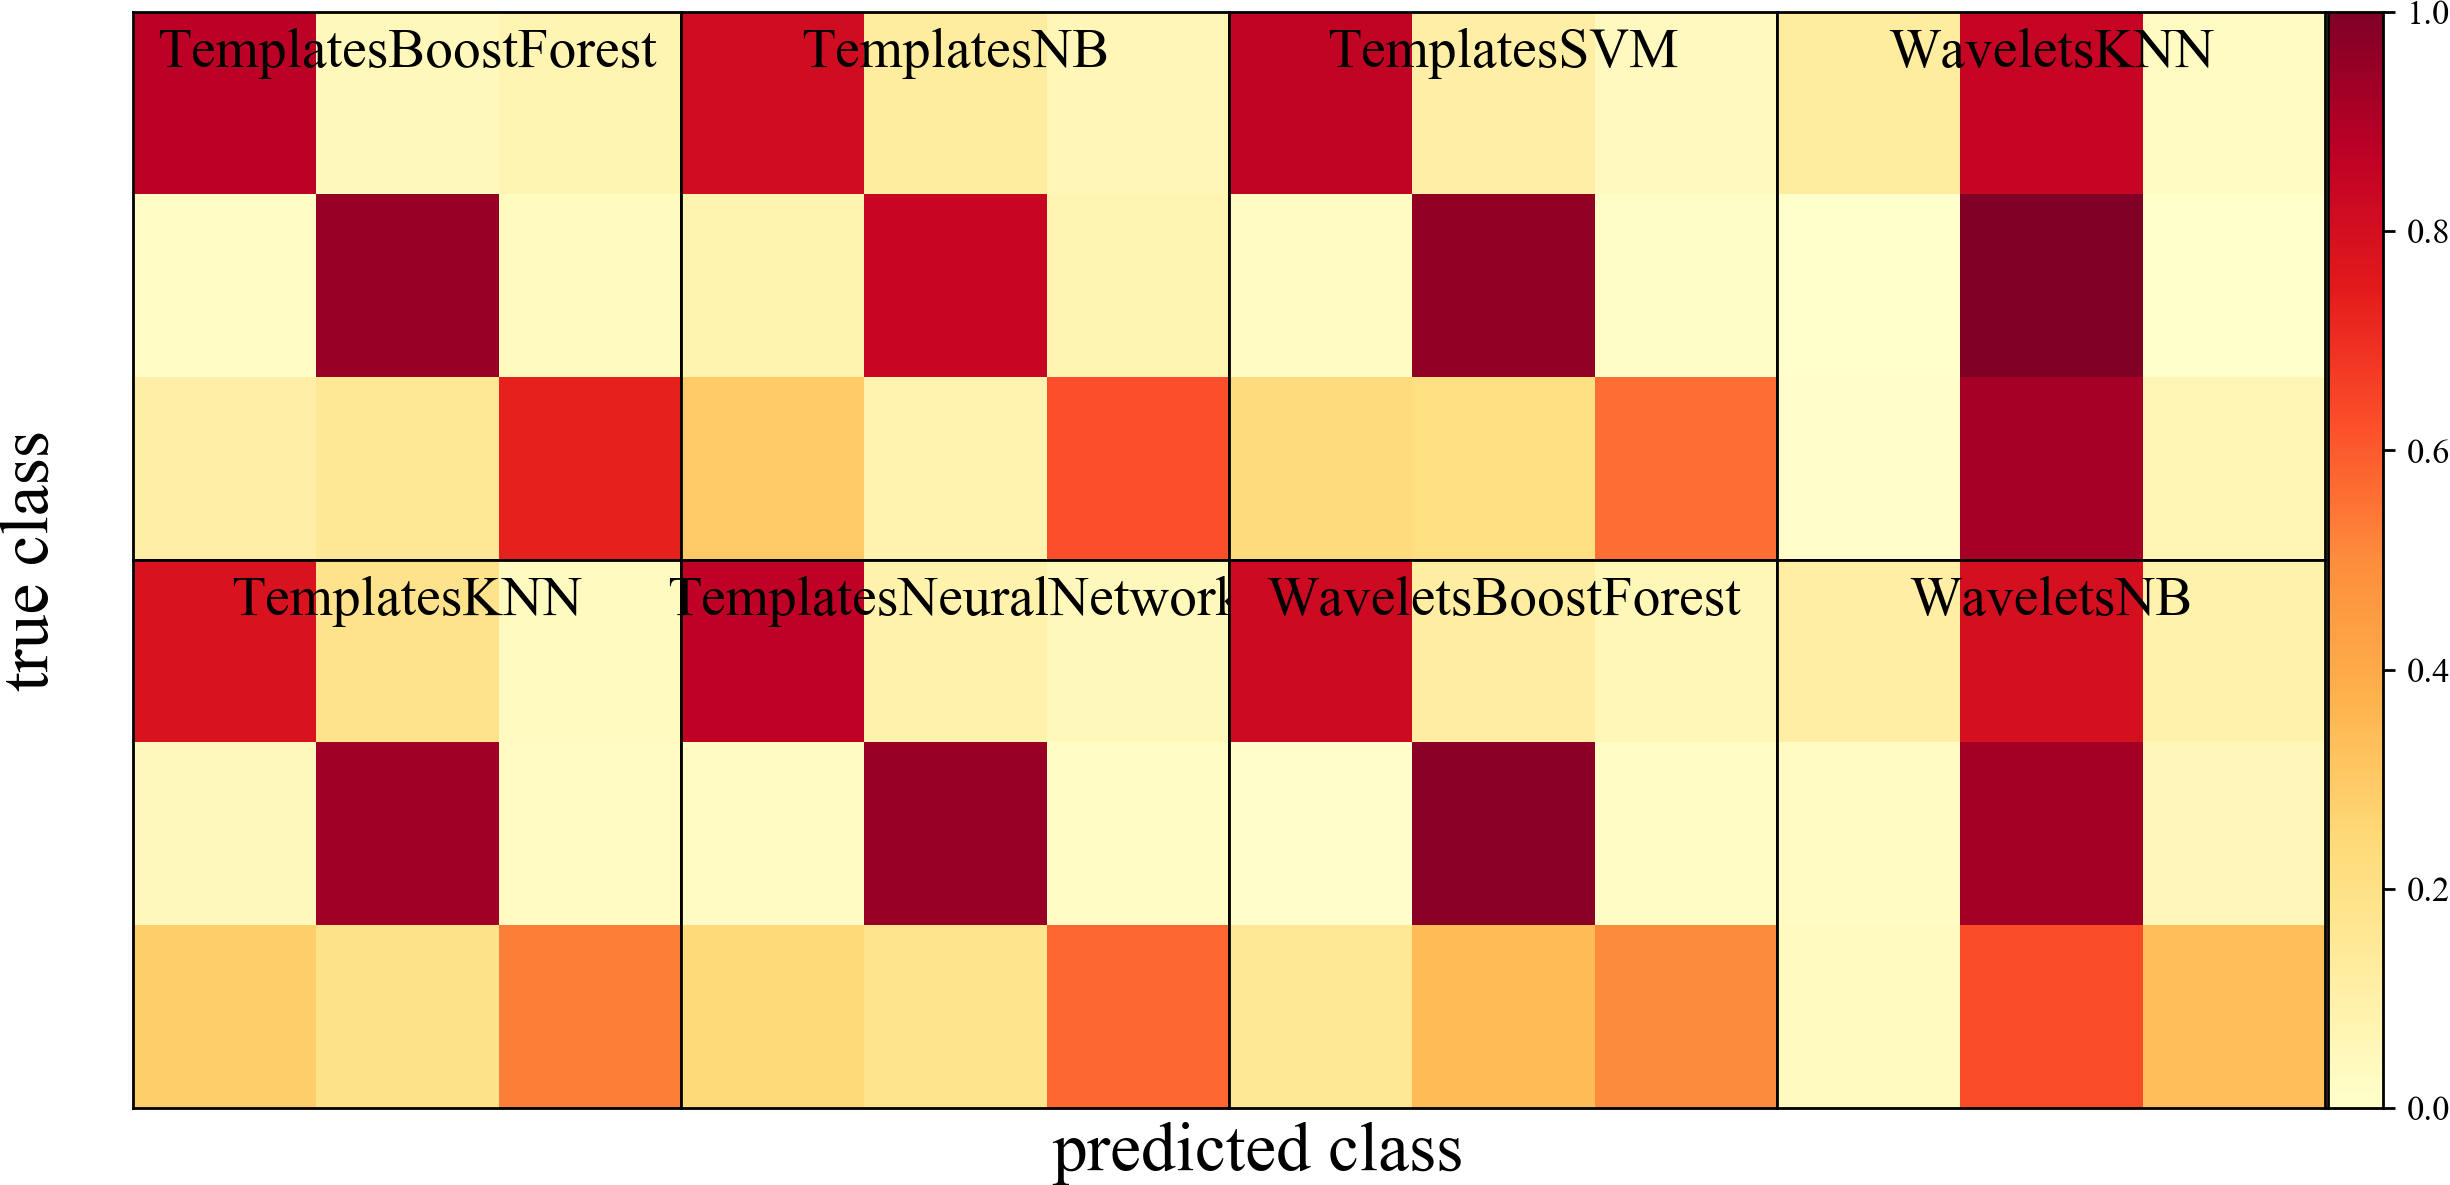
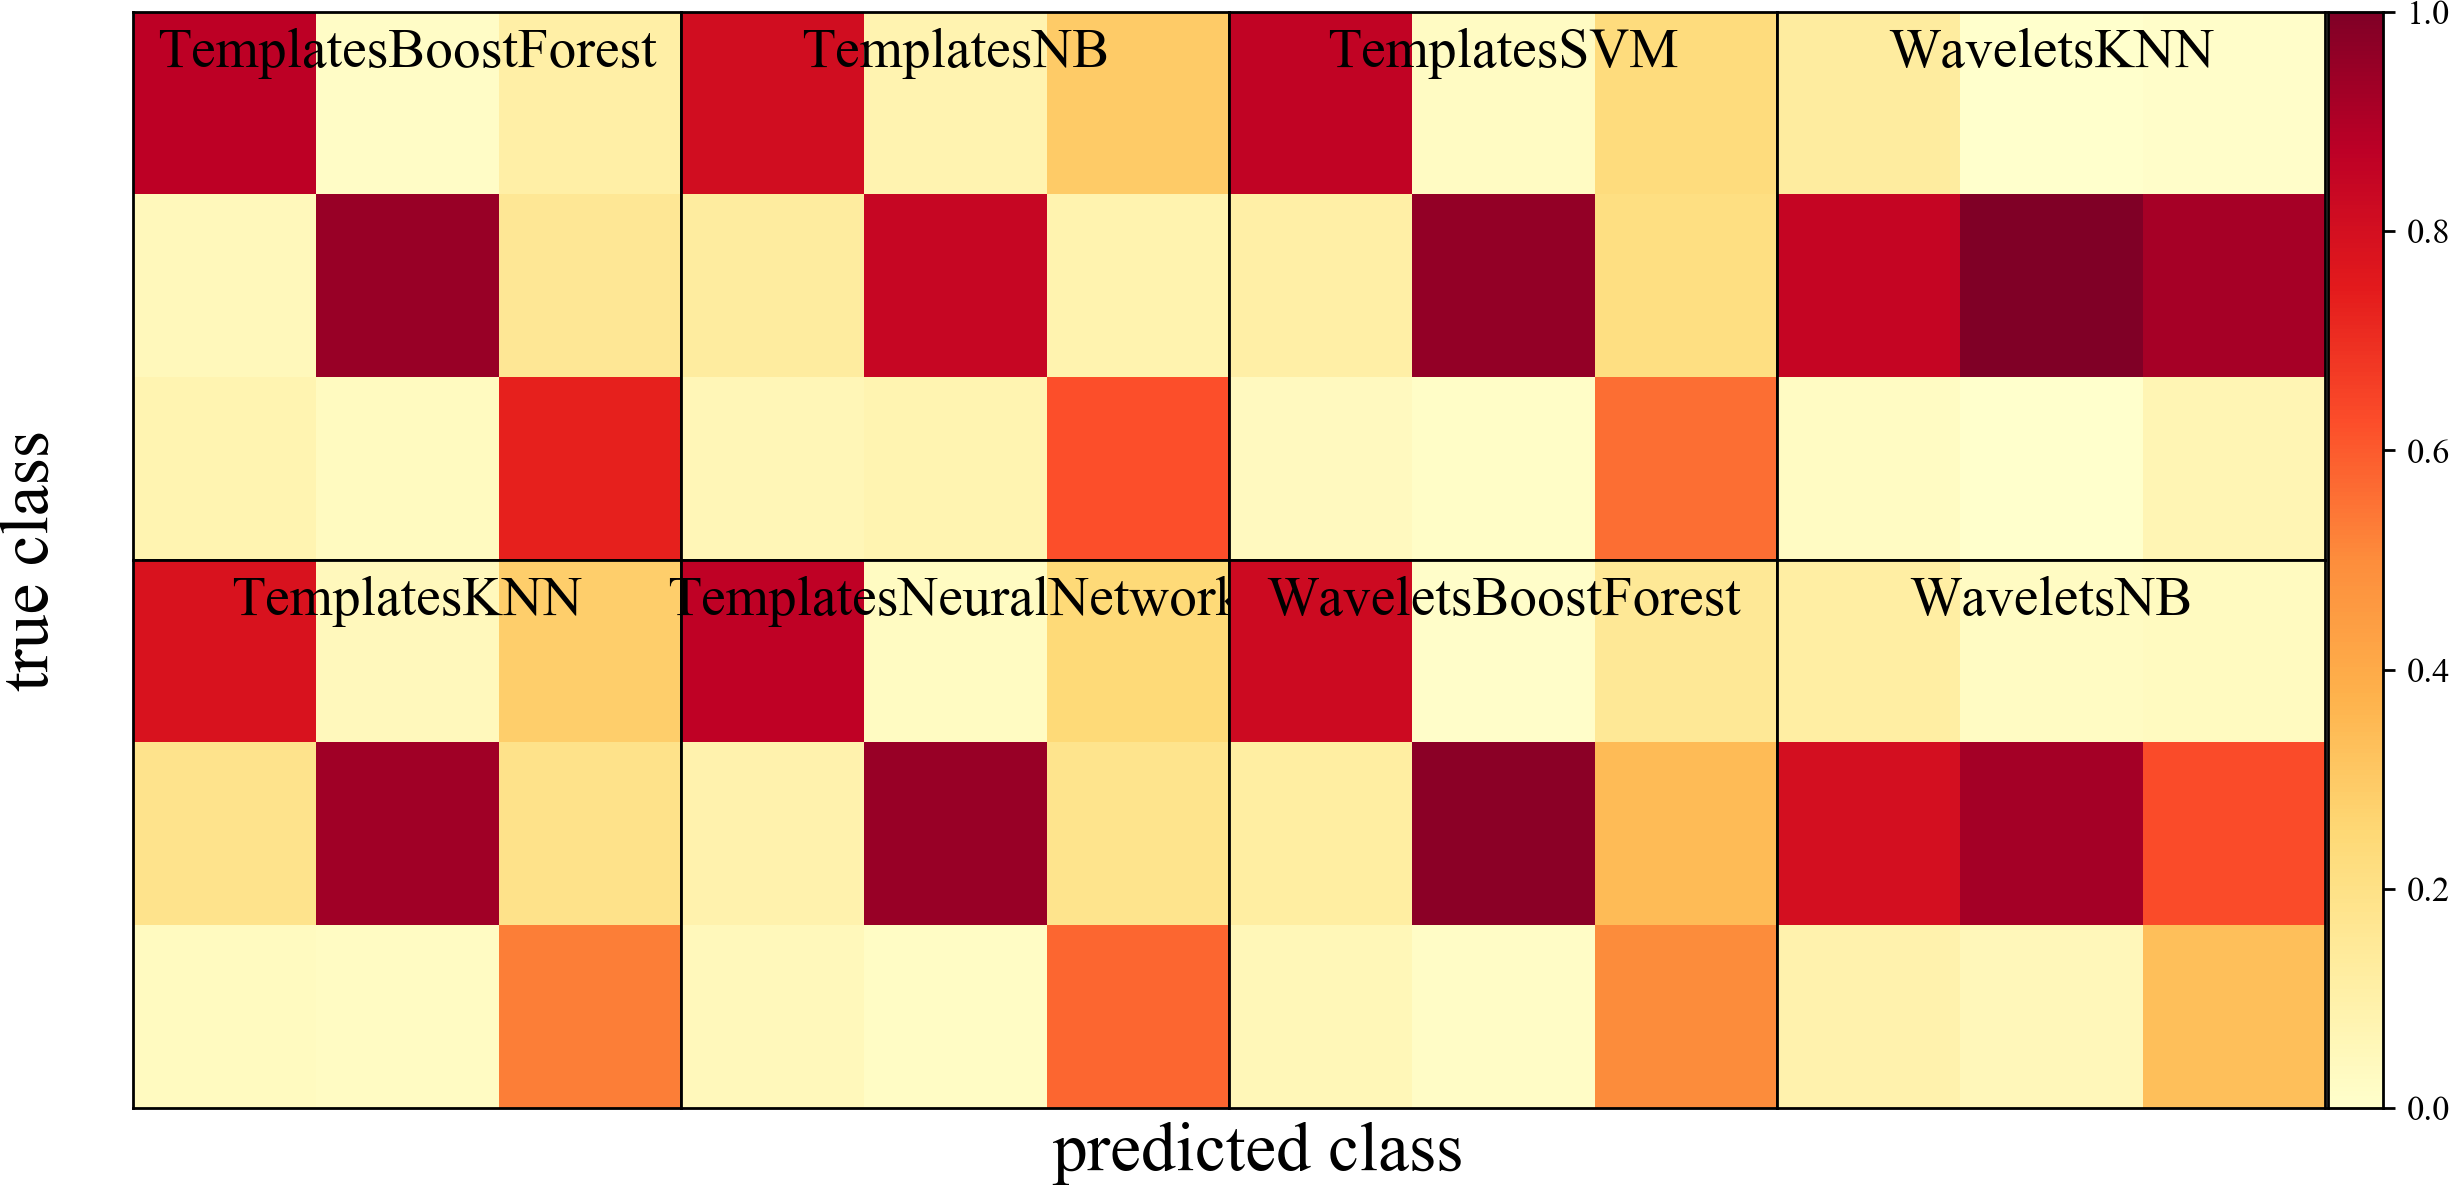
simplified

diff --git a/desc_note/tex/data.tex b/desc_note/tex/data.tex
@@ -24,15 +24,8 @@ For each, we will address:
 
 \begin{figure*}
 	\begin{center}
-		\includegraphics[width=0.2\textwidth]{./fig/Agnostic.png}
-		\includegraphics[width=0.2\textwidth]{./fig/Almost.png}
-		\includegraphics[width=0.2\textwidth]{./fig/Tunnel.png}
-		\includegraphics[width=0.2\textwidth]{./fig/SubsumedTo.png}\\
-		\includegraphics[width=0.2\textwidth]{./fig/Perfect.png}
-		\includegraphics[width=0.2\textwidth]{./fig/Noisy.png}
-		\includegraphics[width=0.2\textwidth]{./fig/Cruise.png}
-		\includegraphics[width=0.2\textwidth]{./fig/SubsumedFrom.png}
-		\caption{caption text for rightmost:
+    \includegraphics[width=0.8\textwidth]{./fig/all_sim_cm.png}
+		\caption{caption text for rightmost column:
     top: upweight the predicted class encompassing both true classes, bottom: upweight the predicted class that is consistently misclassified}
 		\label{fig:mock_cm}
 	\end{center}
@@ -68,67 +61,73 @@ classifies one class well and others randomly
 
 classifies all objects as a single class
 
-\subsubsection{Sumsuming classifier}
+\subsubsection{Subsuming classifier}
 \label{sec:subsume_data}
 
 consistently misclassifies one class as one other class
 
-\subsection{Representative classifications and SNPhotCC}
+\subsubsection{Combination of systematics}
+\label{sec:combo}
+
+\begin{figure}
+	\begin{center}
+		\includegraphics[width=0.45\textwidth]{./fig/Combined.png}
+		\caption{}
+		\label{fig:combo_cm}
+	\end{center}
+\end{figure}
+
+\subsection{Representative classifications}
 \label{sec:realdata}
+
+\aim{This discussion probably belongs in Section~\ref{sec:methods} because it's about the metrics used in SNPhotCC, not the systematics in the submitted classification results.}
+
+\aim{It's unclear how the three-class case of SNPhotCC is relevant.  We should perhaps do this for Ashish's confusion matrices for more classes.}
 
 Classification problems in astronomy have historically focused on separating a heterogenous population into a limited number of subclasses (cite Kessler+2010), with the focus or goal being to identify one particular type of object.
 
-In the Supernova Photometric Classification Challenge (SNPhotCC), the metric for deciding on who `won' the challenge was determined as a ratio of the efficiency of Type Ia classification and a `pseudo purity' factor, and a penalty for false-flagging (which is related to the cost of following up an object spectroscopically that is not a SNIa). The figure of metric was given by:
+In the Supernova Photometric Classification Challenge (SNPhotCC), the metric for deciding on who `won' the challenge was determined as a ratio of the efficiency of Type Ia classification and a `pseudo purity' factor, and a penalty for false-flagging (which is related to the cost of following up an object spectroscopically that is not a SNIa).
+The figure of metric was given by:
 
 \begin{eqnarray}
 \mathcal{C}_{FOM-Ia} &\equiv& \frac{1}{\mathcal{N}_{Ia}^{TOT}}\times \frac{(N_{Ia}^{\mathrm{true}})^2}{N_{Ia}^\mathrm{true}+W_{Ia}^\mathrm{false}N_{Ia}^\mathrm{false}}
 \end{eqnarray}
 %\aim{Renee Hlozek will write the descriptions of these datasets.}
 
-The above reduces to $\mathcal{C}_{FOM-Ia}  = \epsilon_{Ia} + PP_{Ia},$ the efficiency and pseudopurity, which can be interpreted as the traditional purity factor in the limit that the weight $W_{Ia}^\mathrm{false} = 1$. For the SNPhotCC the false penalty was related to the size of the spectroscopic subsample as roughly $W_{Ia}^\mathrm{false} = 1 + \epsilon_{spec}^{-1} \gg 1$ but the conservative limit of $W_{Ia}^\mathrm{false} = 3$ was chosen to penalize wasted spectroscopic time over rejected SNe.
+The above reduces to $\mathcal{C}_{FOM-Ia}  = \epsilon_{Ia} + PP_{Ia},$ the efficiency and pseudopurity, which can be interpreted as the traditional purity factor in the limit that the weight $W_{Ia}^\mathrm{false} = 1$.
+For the SNPhotCC the false penalty was related to the size of the spectroscopic subsample as roughly $W_{Ia}^\mathrm{false} = 1 + \epsilon_{spec}^{-1} \gg 1$ but the conservative limit of $W_{Ia}^\mathrm{false} = 3$ was chosen to penalize wasted spectroscopic time over rejected SNe.
 
 For future challenges, a more balanced metric can be used to ensure correct classifications across the range of objects, without focusing or highlighting a specific object as above.
+Furthermore,
 
+In response to the SNPhotCC, a range of classifications approaches were submitted, namely $\chi^{2}$ fits of the SN data to publicly available templates (ref. Nugent+), identification with the SiFTO light curve fitter (Conley et al. 2008) through the fitted values of the stretch, colour and also the $\chi^{2}$ of the fit for Ia fits, and a linear slope to magnitudes per day was used for the non-Ia sample.
+Other groups constructed a Hubble diagram from the training data, and used the residuals away from that Hubble diagram as a criterion for classification in the test data.
+Still other groups performed classification by reducing the dimensionality of the light curves (the so-called InCA approach).
+A general light curve shape (rather than one motivated by the physical differences between SNeIa and core collapse SNe) was assumed by some competitors and then a kernel density estimation was performed over the fit parameters, with various approaches employed including boosting over the feature space.
 
-\aim{We should also do this for Ashish's data in the form of confusion matrices.}
-
-In response to the SNPhotCC, a range of classifications approaches were submitted, namely $\chi^{2}$ fits of the SN data to publicly available templates (ref. Nugent+), identification with the SiFTO light curve fitter (Conley et al. 2008) through the fitted values of the stretch, colour and also the $\chi^{2}$ of the fit for Ia fits, and a linear slope to magnitudes per day was used for the non-Ia sample. Other groups constructed a Hubble diagram from the training data, and used the residuals away from that Hubble diagram as a criterion for classification in the test data.
-
-Other groups performed classification by reducing the dimensionality of the light curves (the so-called InCA approach). A general light curve shape (rather than one motivated by the physical differences between SNeIa and core collapse SNe) was assumed by some competitors and then a kernel density estimation was performed over the fit parameters, with various approaches employed including boosting over the feature space.
-
-
-Machine learning was also eployed over the reduced data set of light-curve slopes (in magnitudes per day) as above to produce a predictive model for the training data. For more information on these methods and their success within the SNPhotCC, we refer the reader to Kessler+2010.
+Machine learning was also eployed over the reduced data set of light-curve slopes (in magnitudes per day) as above to produce a predictive model for the training data.
+For more information on these methods and their success within the SNPhotCC, we refer the reader to Kessler+2010.
 
 The above approaches vary between very physically motivated and \textbf{template based} (and also prone to bias given non-representativity of the test data) and agnostic and based on decomposition of the light curves into \textbf{generic features} (but also making use of less information in the classifications).
 In figure~\ref{fig:snphotcc_cm} we show a range of classification approaches over the wavelet (feature) space (top row) and using templates (bottom row).
 
-\subsubsection{SNPhotCC}
-\label{sec:snphotcc}
-
 \begin{figure*}
 	\begin{center}
-		\includegraphics[width=0.2\textwidth]{./fig/SNPhotCC_WaveletsSVM_cm.png}
-		\includegraphics[width=0.2\textwidth]{./fig/SNPhotCC_WaveletsNeuralNetwork_cm.png}
-		\includegraphics[width=0.2\textwidth]{./fig/SNPhotCC_WaveletsNB_cm.png}
-		\includegraphics[width=0.2\textwidth]{./fig/SNPhotCC_WaveletsBoostForest_cm.png}\\
-		\includegraphics[width=0.2\textwidth]{./fig/SNPhotCC_TemplatesSVM_cm.png}
-		\includegraphics[width=0.2\textwidth]{./fig/SNPhotCC_TemplatesNeuralNetwork_cm.png}
-		\includegraphics[width=0.2\textwidth]{./fig/SNPhotCC_TemplatesNB_cm.png}
-		\includegraphics[width=0.2\textwidth]{./fig/SNPhotCC_TemplatesBoostForest_cm.png}
-		\caption{\aim{Change confusion matrices to log-confusion matrices to better see contrast?}}
+    \includegraphics[width=0.8\textwidth]{./fig/all_snphotcc_cm.png}
+		\caption{SNPhotCC confusion matrices}
 		\label{fig:snphotcc_cm}
 	\end{center}
 \end{figure*}
 
-\subsubsection{Unknown dataset}
-\label{sec:mystery}
-
-\begin{figure*}
-	\begin{center}
-		\includegraphics[width=0.3\textwidth]{./fig/Unknown_MLPNeuralNet_cm.png}
-		\includegraphics[width=0.3\textwidth]{./fig/Unknown_KNeighbors_cm.png}
-		\includegraphics[width=0.3\textwidth]{./fig/Unknown_RandomForest_cm.png}
-		\caption{}
-		\label{fig:unknown_cm}
-	\end{center}
-\end{figure*}
+% \subsubsection{Unknown dataset}
+% \label{sec:mystery}
+%
+% \begin{figure*}
+% 	\begin{center}
+% 		\includegraphics[width=0.3\textwidth]{./fig/Unknown_MLPNeuralNet_cm.png}
+% 		\includegraphics[width=0.3\textwidth]{./fig/Unknown_KNeighbors_cm.png}
+% 		\includegraphics[width=0.3\textwidth]{./fig/Unknown_RandomForest_cm.png}
+% 		\caption{}
+% 		\label{fig:unknown_cm}
+% 	\end{center}
+% \end{figure*}
